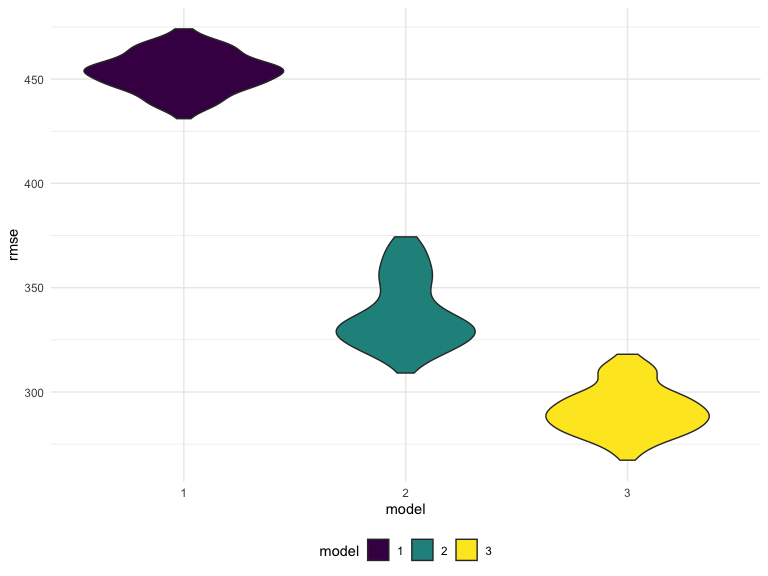
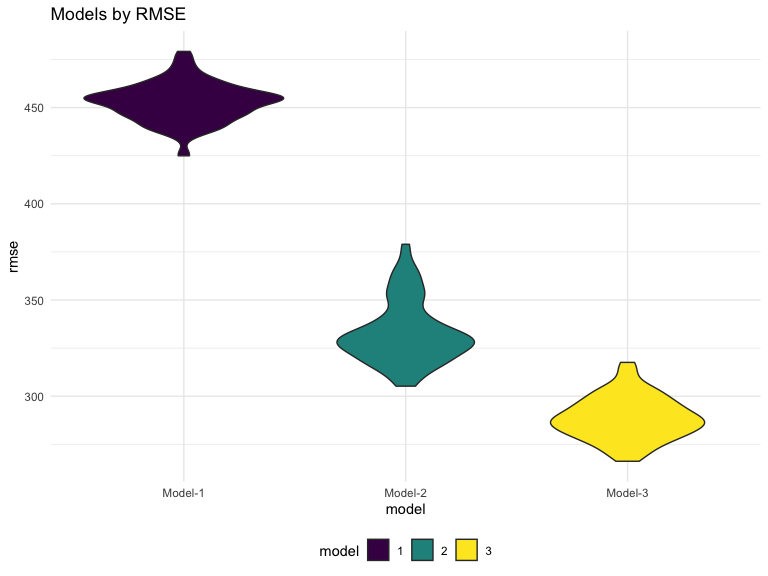
finish p3

diff --git a/p8105_hw6_sz2872.md b/p8105_hw6_sz2872.md
@@ -130,6 +130,13 @@ baby_df =
 
 ## model 1
 
+Reading from the data, and go through online material, I think baby’s
+sex, gestational age in weeks, mother’s weight gain during pregnancy,
+and average number of cigarettes smoked per day during pregnancy are
+factors that effect the baby’s birth weight.
+
+I build my model based on the above assumption.
+
 ``` r
 model_fit_1 = lm(bwt ~ gaweeks + babysex + wtgain + smoken, data = baby_df)
 
@@ -150,8 +157,10 @@ baby_df %>%
 ``` r
 model_fit_2 = lm(bwt ~ blength + gaweeks, data = baby_df)
 
-model_fit_3 = lm(bwt ~ blength * bhead * babysex, data = baby_df)
+model_fit_3 = lm(bwt ~ blength + bhead + babysex + bhead * blength + bhead * babysex + blength * babysex + blength * bhead * babysex, data = baby_df)
 ```
+
+## train and test
 
 ``` r
 cv_df = 
@@ -168,7 +177,7 @@ rmse_df =
   mutate(
     mod_1   = map(train, ~lm(bwt ~ gaweeks + babysex + wtgain + smoken, data = .x)),
     mod_2   = map(train, ~lm(bwt ~ blength + gaweeks, data = .x)),
-    mod_3   = map(train, ~lm(bwt ~ blength * bhead * babysex, data = .x)) 
+    mod_3   = map(train, ~lm(bwt ~ blength + bhead + babysex + bhead * blength + bhead * babysex + blength * babysex + blength * bhead * babysex, data = .x)) 
   )%>% 
   mutate(
     rmse_1  = map2_dbl(mod_1, test, ~rmse(model = .x, data = .y)),
@@ -185,7 +194,125 @@ rmse_df %>%
     names_prefix = "rmse_") %>% 
   mutate(model = fct_inorder(model)) %>% 
   ggplot(aes(x = model, y = rmse, fill = model)) + 
-  geom_violin()
+  geom_violin() +
+  labs( title = "Models by RMSE") +
+  scale_x_discrete(labels = c("Model-1","Model-2","Model-3"))
 ```
 
 <img src="p8105_hw6_sz2872_files/figure-gfm/unnamed-chunk-9-1.png" width="90%" />
+
+The third model has the lowest RMSE, which means this model fits the
+best with the data. The third model includes factors and interaction
+factors.
+
+# Problem 3
+
+## load data
+
+``` r
+weather_df = 
+  rnoaa::meteo_pull_monitors(
+    c("USW00094728"),
+    var = c("PRCP", "TMIN", "TMAX"), 
+    date_min = "2017-01-01",
+    date_max = "2017-12-31") %>%
+  mutate(
+    name = recode(id, USW00094728 = "CentralPark_NY"),
+    tmin = tmin / 10,
+    tmax = tmax / 10) %>%
+  select(name, id, everything())
+```
+
+    ## Registered S3 method overwritten by 'hoardr':
+    ##   method           from
+    ##   print.cache_info httr
+
+    ## using cached file: /Users/shane/Library/Caches/R/noaa_ghcnd/USW00094728.dly
+
+    ## date created (size, mb): 2020-10-01 09:52:54 (7.52)
+
+    ## file min/max dates: 1869-01-01 / 2020-09-30
+
+## get the value and plot for r-square
+
+``` r
+rsquare_df = 
+  weather_df %>% 
+  bootstrap(n = 5000) %>% 
+  mutate(
+    models = map(strap, ~lm(tmax ~ tmin, data = .x)),
+    results = map(models, broom::glance)
+  ) %>%
+  select(-strap, -models) %>% 
+  unnest(results) %>% 
+  select(.id, r.squared)
+
+rsquare_df %>% 
+  ggplot(aes(x = r.squared)) + 
+  geom_density()
+```
+
+<img src="p8105_hw6_sz2872_files/figure-gfm/unnamed-chunk-11-1.png" width="90%" />
+
+## get the value and plot for log
+
+``` r
+log_df= 
+  weather_df %>% 
+  modelr::bootstrap(n = 5000) %>% 
+  mutate(
+    models = map(strap, ~lm(tmax ~ tmin, data = .x)),
+    results = map(models, broom::tidy)
+  ) %>%
+  select(-strap, -models) %>% 
+  unnest(results) %>%
+  select(.id, term, estimate) %>% 
+  pivot_wider(
+    names_from = "term", 
+    values_from = "estimate"
+  ) %>%
+  mutate(
+    log = log(`(Intercept)`*tmin)
+  ) 
+
+log_df %>%
+  ggplot(aes(x = log)) + 
+  geom_density()
+```
+
+<img src="p8105_hw6_sz2872_files/figure-gfm/unnamed-chunk-12-1.png" width="90%" />
+
+From the density plot, the distribution of R Squared is slight left
+skewness. And the distribution of log(beta0\*beta1) is about normal.
+
+## get the 95% confidence interval for both value
+
+``` r
+left_join(rsquare_df, log_df, by = ".id") %>% 
+  select(.id, r.squared, log) %>% 
+  pivot_longer(
+    -.id,
+    names_to = "estimates",
+    values_to = "value"
+  ) %>% 
+  select(-.id) %>% 
+  group_by(estimates) %>% 
+  summarise(
+    p2.5 = quantile(value,0.025),
+    p97.5 = quantile(value,0.975)
+  ) %>% 
+  knitr::kable()
+```
+
+    ## `summarise()` ungrouping output (override with `.groups` argument)
+
+| estimates |      p2.5 |     p97.5 |
+| :-------- | --------: | --------: |
+| log       | 1.9658550 | 2.0600110 |
+| r.squared | 0.8940006 | 0.9277622 |
+
+The 95% confidence interval for \(\hat{r}^{2}\) is (0.894, 0.926).
+
+The 95% confidence interval for
+\(\log \left(\hat{\beta}_{0} * \hat{\beta}_{1}\right)\) is (0.894,
+0.926).
